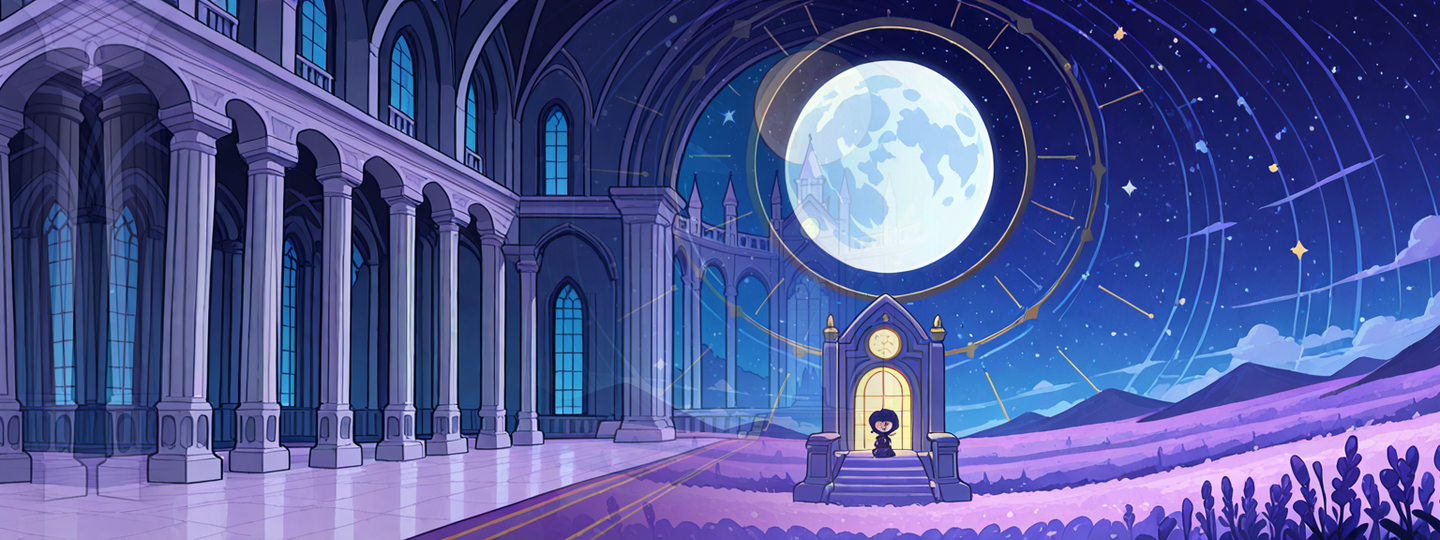
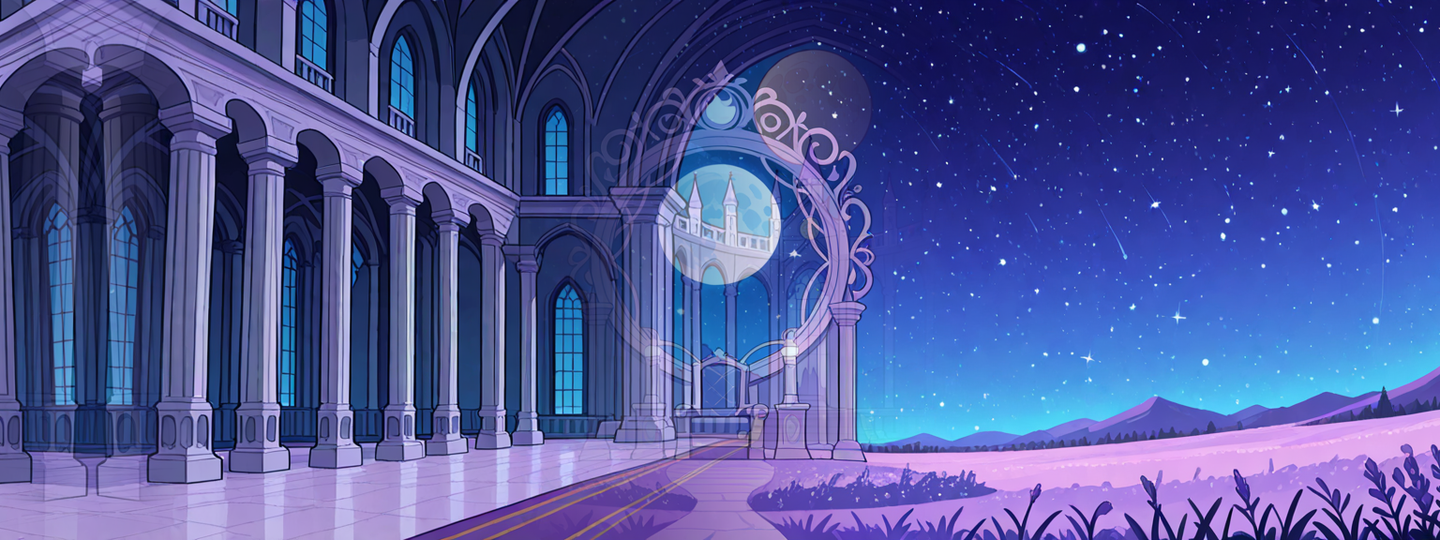
美術:世界 8–10 修正(老鷹蛾鼠兔改朝左、換掉有小人的遠景、柱子避開月亮、六角恐龍改游動)

diff --git a/docs/art/tools/process_worlds8910.py b/docs/art/tools/process_worlds8910.py
@@ -19,18 +19,18 @@ A = lambda *p: os.path.join(ROOT, "public", "assets", *p)
 PICKS = {
     "w8-coffee-cloud": ("G16/w8/w8-coffee-cloud_00002_.png", (56, 52), False),
     "w8-coffee-cloud-sleep": ("G17/w8s/w8-coffee-cloud-sleep_00002_.png", (56, 52), False),
-    "w8-noisy-eagle": ("G16/w8/w8-noisy-eagle_00002_.png", (60, 56), False),
-    "w8-noisy-eagle-sleep": ("G17/w8s/w8-noisy-eagle-sleep_00002_.png", (60, 56), False),
-    "w8-pika": ("G16/w8/w8-pika_00004_.png", (48, 52), False),
-    "w8-pika-sleep": ("G17/w8s/w8-pika-sleep_00002_.png", (48, 52), False),
+    "w8-noisy-eagle": ("G16/w8/w8-noisy-eagle_00002_.png", (60, 56), True),
+    "w8-noisy-eagle-sleep": ("G17/w8s/w8-noisy-eagle-sleep_00002_.png", (60, 56), True),
+    "w8-pika": ("G16/w8/w8-pika_00004_.png", (48, 52), True),
+    "w8-pika-sleep": ("G17/w8s/w8-pika-sleep_00002_.png", (48, 52), True),
     "w8-yak": ("G16/w8/w8-yak_00003_.png", (80, 72), False),
     "w8-yak-sleep": ("G17/w8s/w8-yak-sleep_00002_.png", (80, 72), False),
     "w9-coffee-worm": ("G16/w9/w9-coffee-worm_00004_.png", (48, 56), False),
     "w9-coffee-worm-sleep": ("G17/w9s/w9-coffee-worm-sleep_00002_.png", (48, 56), False),
     "w9-mushroom-sprite": ("G16/w9/w9-mushroom-sprite_00001_.png", (48, 56), False),
     "w9-mushroom-sprite-sleep": ("G17/w9s/w9-mushroom-sprite-sleep_00002_.png", (48, 56), False),
-    "w9-noisy-moth": ("G16/w9/w9-noisy-moth_00003_.png", (60, 56), False),
-    "w9-noisy-moth-sleep": ("G17/w9s/w9-noisy-moth-sleep_00002_.png", (60, 56), False),
+    "w9-noisy-moth": ("G16/w9/w9-noisy-moth_00003_.png", (60, 56), True),
+    "w9-noisy-moth-sleep": ("G17/w9s/w9-noisy-moth-sleep_00002_.png", (60, 56), True),
     "w9-rhino-beetle": ("G16/w9/w9-rhino-beetle_00002_.png", (80, 72), False),
     "w9-rhino-beetle-sleep": ("G17/w9s/w9-rhino-beetle-sleep_00002_.png", (80, 72), False),
     "w10-coffee-teapot": ("G16/w10/w10-coffee-teapot_00002_.png", (52, 56), False),
@@ -42,9 +42,9 @@ PICKS = {
     "w10-noisy-star": ("G16/w10/w10-noisy-star-v2_00003_.png", (56, 56), False),
     "w10-noisy-star-sleep": ("G17/w10s/w10-noisy-star-sleep_00002_.png", (56, 56), False),
 }
-FAR_PICKS = {"w8-1": "00002", "w8-2": "00001", "w8-3": "00004", "w8-4": "00003",
-             "w9-1": "00002", "w9-2": "00002", "w9-3": "00002", "w9-4": "v2_00002",
-             "w10-1": "00002", "w10-2": "00002", "w10-3": "00001", "w10-4": "00002"}
+FAR_PICKS = {"w8-1": "00002", "w8-2": "00001", "w8-3": "00003", "w8-4": "00003",
+             "w9-1": "00002", "w9-2": "00002", "w9-3": "00002", "w9-4": "v2_00001",
+             "w10-1": "00002", "w10-2": "00002", "w10-3": "00001", "w10-4": "00003"}
 FAR_PATCH = {"w8-1": [((745, 372, 835, 448), -130)]}  # 蓋掉模型自己加的白色小動物
 
 for name, (src, box, flip) in PICKS.items():
@@ -81,8 +81,8 @@ else:
         # 世界 10：城下花園（白天）→ 城牆（黃昏）→ 城堡大廳（晚上）→ 月光王座（深夜）
         "w10-s1": (FAR("w10", 1), rocks_mid((70, 120, 80), seed=101, n=8), seabed((110, 150, 100), phase=0.5)),  # 花園：圓灌木
         "w10-s2": (FAR("w10", 2), castle_mid((100, 64, 92), seed=102, n=0), seabed((80, 50, 74), phase=1.3)),
-        "w10-s3": (FAR("w10", 3), pillars_mid((80, 70, 120), seed=103), seabed((30, 22, 60), phase=2.1)),
-        "w10-s4": (FAR("w10", 4), pillars_mid((60, 50, 100), seed=104, n=4), seabed((18, 12, 40), phase=2.9)),
+        "w10-s3": (FAR("w10", 3), pillars_mid((80, 70, 120), seed=113), seabed((30, 22, 60), phase=2.1)),
+        "w10-s4": (FAR("w10", 4), pillars_mid((60, 50, 100), seed=114, n=4), seabed((18, 12, 40), phase=2.9)),
     }
     for key, layers in SCENES.items():
         for n, im in zip(("far", "mid", "near"), layers):

diff --git a/docs/art/tools/make_anim_all.py b/docs/art/tools/make_anim_all.py
@@ -81,7 +81,8 @@ KIND = {
     "w8-noisy-eagle": "flap", "w8-coffee-cloud": "bounce", "w9-noisy-moth": "flap", "w9-mushroom-sprite": "bounce", "w9-coffee-worm": "bounce",
     "w10-noisy-star": "bounce", "w10-coffee-teapot": "bounce",
     # 世界 8–10 Boss
-    "w8-thunderbird-boss": "flap", "w9-boss1-firefly-queen": "bounce",  # 翅膀在背上、手提燈在旁邊，用彈跳比較不會變形 "w9-boss2-axolotl": "swim",
+    "w8-thunderbird-boss": "flap", "w9-boss1-firefly-queen": "bounce",  # 翅膀在背上、手提燈在旁邊，用彈跳比較不會變形
+    "w9-boss2-axolotl": "swim",
 }
 
 def targets():

diff --git a/docs/art/animations.md b/docs/art/animations.md
@@ -82,7 +82,7 @@
 | `w8-thunderbird-boss-phase3` | 拍翅 | `w8-thunderbird-boss-phase3-flap-1.png` ～ `-4.png` |
 | `w8-yak` | 走路 | `w8-yak-walk-1.png` ～ `-4.png` |
 | `w9-boss1-firefly-queen` | 彈跳 | `w9-boss1-firefly-queen-bounce-1.png` ～ `-4.png` |
-| `w9-boss2-axolotl` | 走路 | `w9-boss2-axolotl-walk-1.png` ～ `-4.png` |
+| `w9-boss2-axolotl` | 游動 | `w9-boss2-axolotl-swim-1.png` ～ `-4.png` |
 | `w9-coffee-worm` | 彈跳 | `w9-coffee-worm-bounce-1.png` ～ `-4.png` |
 | `w9-giant-mole-boss` | 走路 | `w9-giant-mole-boss-walk-1.png` ～ `-4.png` |
 | `w9-giant-mole-boss-phase2` | 走路 | `w9-giant-mole-boss-phase2-walk-1.png` ～ `-4.png` |

diff --git a/docs/art/world10-assets.md b/docs/art/world10-assets.md
@@ -31,4 +31,5 @@
 
 - 中景、近景、機關是程式畫的，比較簡單。
 - 吵鬧小星星是「騎在星星上的紫色小精靈」，不是星星本身長臉。
+- 枕頭兵、茶壺精靈的睡著版眼睛不太像閉著；大鐘守衛的盾牌上有一張月亮臉。
 - 飛行的小怪飛行時底部要高於 y=452，讓玩家蹲下能閃過。

diff --git a/docs/art/world8-assets.md b/docs/art/world8-assets.md
@@ -30,4 +30,5 @@
 ## 已知問題
 
 - 中景、近景、機關是程式畫的，比較簡單。
+- 高山草甸遠景裡模型自己加的白色小動物已用補丁蓋掉，放大看得到一點痕跡；白天的天空裡有一個小月亮。
 - 飛行的小怪飛行時底部要高於 y=452，讓玩家蹲下能閃過。

diff --git a/docs/art/world9-assets.md b/docs/art/world9-assets.md
@@ -30,4 +30,5 @@
 ## 已知問題
 
 - 中景、近景、機關是程式畫的，比較簡單。
+- 蘑菇精靈的睡著版眼睛只有半閉；身體偏人形。
 - 飛行的小怪飛行時底部要高於 y=452，讓玩家蹲下能閃過。
